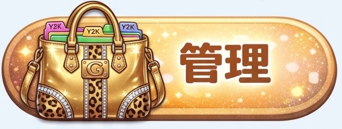
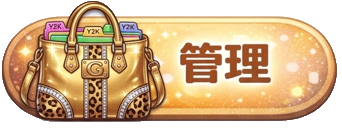
style(skins): make Tmp04-06 white backgrounds transparent
Apply edge-based transparency processing to Tmp04/Tmp05/Tmp06 skin PNG assets and update the helper script to target specific skin IDs for repeatable maintenance.

Made-with: Cursor

diff --git a/scripts/transparent_skin_png_edges.py b/scripts/transparent_skin_png_edges.py
@@ -70,21 +70,28 @@ def flood_transparent_edge(img: Image.Image) -> Image.Image:
 
 
 def main() -> int:
-    root = Path(__file__).resolve().parents[1] / "public" / "skins" / "Tmp01"
-    if not root.is_dir():
-        print(f"Missing: {root}", file=sys.stderr)
+    skins_root = Path(__file__).resolve().parents[1] / "public" / "skins"
+    if not skins_root.is_dir():
+        print(f"Missing: {skins_root}", file=sys.stderr)
         return 1
 
-    pngs = sorted(root.glob("*.png"))
-    if not pngs:
-        print("No PNG files", file=sys.stderr)
-        return 1
+    target_ids = sys.argv[1:] if len(sys.argv) > 1 else ["Tmp01"]
+    for skin_id in target_ids:
+        root = skins_root / skin_id
+        if not root.is_dir():
+            print(f"Skip (missing): {root}")
+            continue
 
-    for path in pngs:
-        im = Image.open(path)
-        out = flood_transparent_edge(im)
-        out.save(path, format="PNG", optimize=True)
-        print(f"OK {path.name}")
+        pngs = sorted(root.glob("*.png"))
+        if not pngs:
+            print(f"Skip (no png): {root}")
+            continue
+
+        for path in pngs:
+            im = Image.open(path)
+            out = flood_transparent_edge(im)
+            out.save(path, format="PNG", optimize=True)
+            print(f"OK {skin_id}/{path.name}")
 
     return 0
 
